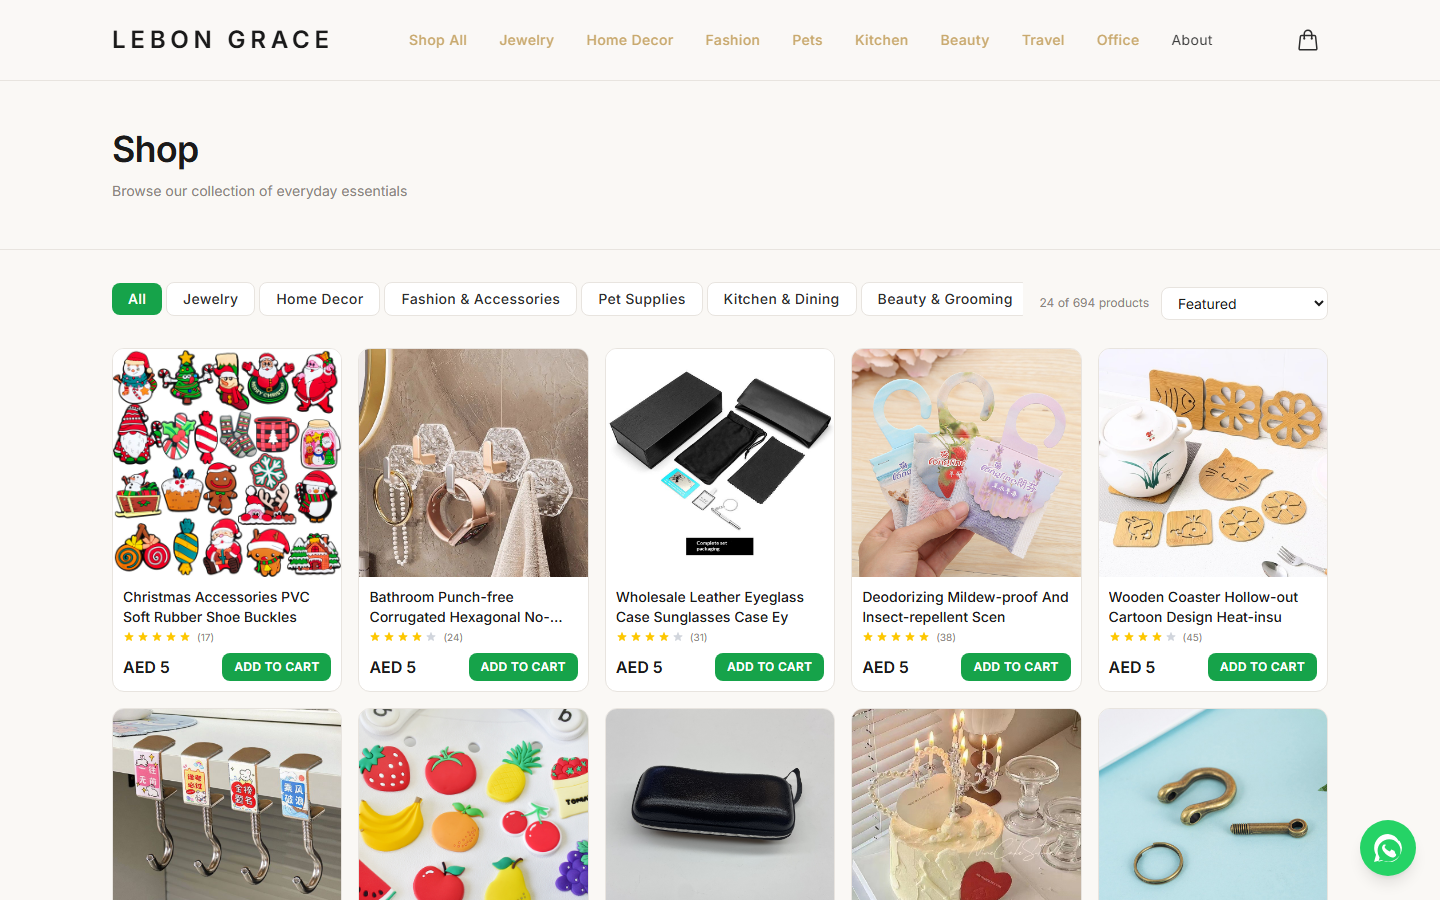
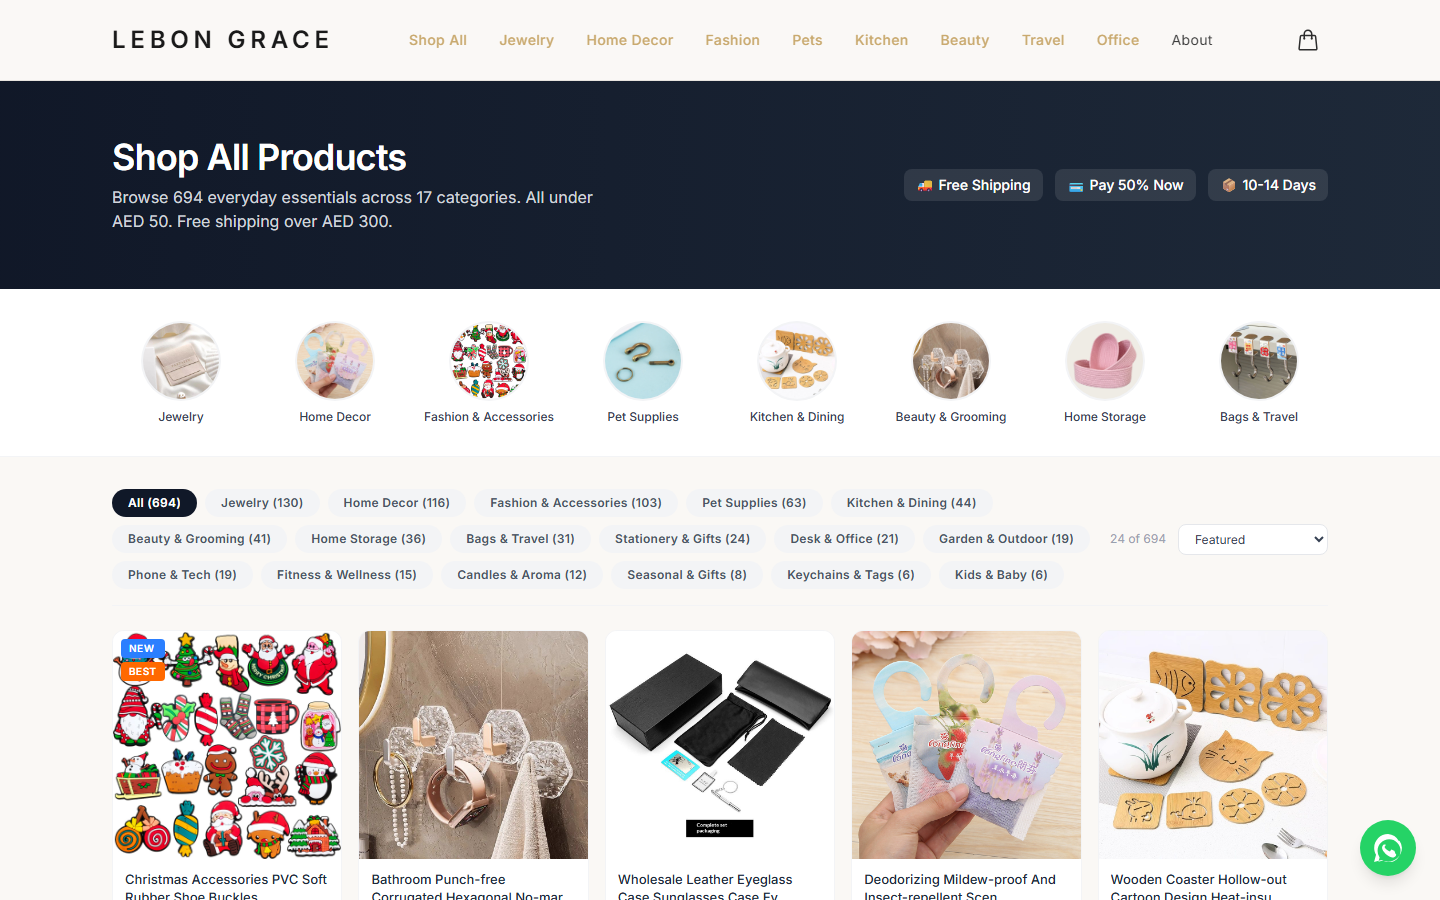
feat: redesign shop page with e-commerce best practices
- Dark hero banner with product count, category count, trust badges
- Category showcase section with circular product images
- Rounded filter pills with product counts (All, Jewelry, Home, etc.)
- Product cards with: NEW/BEST badges, star ratings, hover effects
- Green Add to Cart button with + icon
- Improved sort dropdown and product count display
- Trust bar at bottom (Free Shipping, 50/50 Payment, Secure, Returns)
- Responsive grid: 2 cols mobile, 3 tablet, 4 desktop, 5 large
- Removed scrollbar from category filters

diff --git a/src/app/shop/page.tsx b/src/app/shop/page.tsx
@@ -7,7 +7,6 @@ import { useCart } from "@/lib/cart-context";
 import { products, formatPrice, categories } from "@/lib/products";
 import { Suspense } from "react";
 
-const filterTabs = ["All", ...categories.map((c) => c.name)] as const;
 const sortOptions = [
   { value: "featured", label: "Featured" },
   { value: "price-low", label: "Price: Low to High" },
@@ -15,16 +14,109 @@ const sortOptions = [
   { value: "name-az", label: "Name: A\u2013Z" },
 ];
 
-function StarRating({ index }: { index: number }) {
-  const rating = (index % 3 === 0) ? 5 : (index % 2 === 0 ? 4.5 : 4);
+function StarRating({ rating, count }: { rating: number; count: number }) {
   return (
-    <div className="flex items-center gap-0.5 mt-1">
+    <div className="flex items-center gap-0.5">
       {[1,2,3,4,5].map((i) => (
-        <svg key={i} className={`w-3 h-3 ${i <= Math.floor(rating) ? "text-yellow-400" : "text-gray-300"}`} fill="currentColor" viewBox="0 0 20 20">
+        <svg key={i} className={`w-3 h-3 ${i <= Math.floor(rating) ? "text-yellow-400" : i - 0.5 <= rating ? "text-yellow-300" : "text-gray-200"}`} fill="currentColor" viewBox="0 0 20 20">
           <path d="M9.049 2.927c.3-.921 1.603-.921 1.902 0l1.07 3.292a1 1 0 00.95.69h3.462c.969 0 1.371 1.24.588 1.81l-2.8 2.034a1 1 0 00-.364 1.118l1.07 3.292c.3.921-.755 1.688-1.54 1.118l-2.8-2.034a1 1 0 00-1.175 0l-2.8 2.034c-.784.57-1.838-.197-1.539-1.118l1.07-3.292a1 1 0 00-.364-1.118L2.98 8.72c-.783-.57-.38-1.81.588-1.81h3.461a1 1 0 00.951-.69l1.07-3.292z" />
         </svg>
       ))}
-      <span className="text-warm-gray text-[10px] ml-1">({(index * 7 + 12) % 50 + 5})</span>
+      <span className="text-gray-400 text-[11px] ml-0.5">({count})</span>
+    </div>
+  );
+}
+
+function CategoryShowcase() {
+  const topCategories = categories.slice(0, 8);
+  return (
+    <section className="bg-white border-b border-gray-100">
+      <div className="max-w-7xl mx-auto px-4 sm:px-6 lg:px-8 py-8">
+        <div className="grid grid-cols-4 sm:grid-cols-4 lg:grid-cols-8 gap-4">
+          {topCategories.map((cat) => {
+            const sampleProduct = products.find((p) => p.category === cat.name && p.imageUrl);
+            return (
+              <Link key={cat.name} href={"/shop?category=" + encodeURIComponent(cat.name)} className="group flex flex-col items-center gap-2 text-center">
+                <div className="w-16 h-16 sm:w-20 sm:h-20 rounded-full overflow-hidden bg-gray-100 border-2 border-transparent group-hover:border-[#16A34A] transition-colors duration-200">
+                  {sampleProduct?.imageUrl ? (
+                    <img src={sampleProduct.imageUrl} alt={cat.name} className="w-full h-full object-cover" loading="lazy" />
+                  ) : (
+                    <div className="w-full h-full flex items-center justify-center bg-gray-100 text-xl">{cat.icon}</div>
+                  )}
+                </div>
+                <span className="text-xs font-medium text-gray-700 group-hover:text-[#16A34A] transition-colors leading-tight">{cat.name}</span>
+              </Link>
+            );
+          })}
+        </div>
+      </div>
+    </section>
+  );
+}
+
+function ProductCard({ product, index, onAdd }: { product: typeof products[0]; index: number; onAdd: () => void }) {
+  const rating = 3.5 + (index % 3) * 0.5;
+  const reviewCount = (index * 7 + 12) % 50 + 5;
+  const isNew = index % 5 === 0;
+  const isBestseller = index % 7 === 0;
+
+  return (
+    <div className="group relative bg-white rounded-xl overflow-hidden border border-gray-100 hover:shadow-lg hover:-translate-y-0.5 transition-all duration-200">
+      {/* Badges */}
+      <div className="absolute top-2 left-2 z-10 flex flex-col gap-1">
+        {isNew && <span className="px-2 py-0.5 bg-blue-500 text-white text-[10px] font-bold uppercase tracking-wider rounded">New</span>}
+        {isBestseller && <span className="px-2 py-0.5 bg-orange-500 text-white text-[10px] font-bold uppercase tracking-wider rounded">Best</span>}
+      </div>
+
+      {/* Image */}
+      <Link href={"/shop/" + product.slug} className="block">
+        <div className="aspect-square overflow-hidden bg-gray-50">
+          <img
+            src={product.imageUrl}
+            alt={product.name}
+            className="w-full h-full object-cover group-hover:scale-105 transition-transform duration-500"
+            loading="lazy"
+            onError={(e) => {
+              const target = e.target as HTMLImageElement;
+              target.style.display = 'none';
+              const parent = target.parentElement;
+              if (parent) {
+                parent.style.backgroundColor = product.imagePlaceholder.bg;
+                parent.style.display = 'flex';
+                parent.style.alignItems = 'center';
+                parent.style.justifyContent = 'center';
+                const span = document.createElement('span');
+                span.className = 'font-bold text-2xl opacity-60';
+                span.style.color = (product.imagePlaceholder.bg === "#C9A96E" || product.imagePlaceholder.bg === "#D4BA85") ? "#2D2D2D" : "#FAF8F5";
+                span.textContent = product.imagePlaceholder.initials;
+                parent.appendChild(span);
+              }
+            }}
+          />
+        </div>
+      </Link>
+
+      {/* Info */}
+      <div className="p-3">
+        <Link href={"/shop/" + product.slug}>
+          <h3 className="text-[13px] font-medium text-gray-800 leading-snug line-clamp-2 hover:text-[#16A34A] transition-colors mb-1">{product.name}</h3>
+        </Link>
+        <StarRating rating={rating} count={reviewCount} />
+        <div className="flex items-center justify-between mt-2.5">
+          <div>
+            <span className="text-gray-900 font-bold text-base">{formatPrice(product.price)}</span>
+          </div>
+          <button
+            onClick={onAdd}
+            className="flex items-center gap-1 px-3 py-1.5 bg-[#16A34A] text-white text-xs font-semibold tracking-wide rounded-lg hover:bg-[#15803D] active:scale-95 transition-all"
+          >
+            <svg className="w-3.5 h-3.5" fill="none" viewBox="0 0 24 24" stroke="currentColor" strokeWidth={2}>
+              <path strokeLinecap="round" strokeLinejoin="round" d="M12 4v16m8-8H4" />
+            </svg>
+            Add
+          </button>
+        </div>
+      </div>
     </div>
   );
 }
@@ -54,39 +146,77 @@ function ShopContent() {
 
   return (
     <>
-      <section className="bg-offwhite border-b border-border">
-        <div className="max-w-7xl mx-auto px-4 sm:px-6 lg:px-8 py-8 lg:py-12">
-          <h1 className="text-3xl lg:text-4xl font-bold tracking-tight text-dark">Shop</h1>
-          <p className="mt-3 text-warm-gray text-sm">Browse our collection of everyday essentials</p>
+      {/* Hero Banner */}
+      <section className="bg-gradient-to-r from-gray-900 to-gray-800 text-white">
+        <div className="max-w-7xl mx-auto px-4 sm:px-6 lg:px-8 py-10 lg:py-14">
+          <div className="flex flex-col lg:flex-row items-center justify-between gap-6">
+            <div>
+              <h1 className="text-3xl lg:text-4xl font-bold tracking-tight">Shop All Products</h1>
+              <p className="mt-2 text-gray-300 text-sm lg:text-base max-w-lg">
+                Browse {products.length} everyday essentials across {categories.length} categories. All under AED 50. Free shipping over AED 300.
+              </p>
+            </div>
+            <div className="flex items-center gap-3">
+              <span className="px-3 py-1.5 bg-white/10 rounded-lg text-sm font-medium">
+                🚚 Free Shipping
+              </span>
+              <span className="px-3 py-1.5 bg-white/10 rounded-lg text-sm font-medium">
+                💳 Pay 50% Now
+              </span>
+              <span className="px-3 py-1.5 bg-white/10 rounded-lg text-sm font-medium">
+                📦 10-14 Days
+              </span>
+            </div>
+          </div>
         </div>
       </section>
 
-      <section className="max-w-7xl mx-auto px-4 sm:px-6 lg:px-8 py-6 lg:py-8">
-        {/* Filter Tabs + Sort */}
-        <div className="flex flex-col sm:flex-row sm:items-center sm:justify-between gap-4 mb-6">
-          <div className="flex items-center gap-1 overflow-x-auto pb-2">
-            {filterTabs.map((tab) => (
-              <button
-                key={tab}
-                onClick={() => { setActiveFilter(tab); setVisibleCount(24); }}
-                className={`px-4 py-1.5 text-sm font-medium tracking-wide rounded-lg whitespace-nowrap transition-colors ${
-                  activeFilter === tab
-                    ? "bg-[#16A34A] text-white"
-                    : "bg-white text-charcoal hover:bg-gray-100 border border-border"
-                }`}
-              >
-                {tab}
-              </button>
-            ))}
+      {/* Category Showcase */}
+      <CategoryShowcase />
+
+      {/* Main Shop Section */}
+      <section className="max-w-7xl mx-auto px-4 sm:px-6 lg:px-8 py-8">
+        {/* Toolbar */}
+        <div className="flex flex-col sm:flex-row sm:items-center sm:justify-between gap-4 mb-6 pb-4 border-b border-gray-100">
+          {/* Category Pills */}
+          <div className="flex items-center gap-2 flex-wrap">
+            <button
+              onClick={() => { setActiveFilter("All"); setVisibleCount(24); }}
+              className={`px-4 py-1.5 text-xs font-semibold tracking-wide rounded-full transition-colors ${
+                activeFilter === "All"
+                  ? "bg-gray-900 text-white"
+                  : "bg-gray-100 text-gray-600 hover:bg-gray-200"
+              }`}
+            >
+              All ({products.length})
+            </button>
+            {categories.map((cat) => {
+              const count = products.filter(p => p.category === cat.name).length;
+              return (
+                <button
+                  key={cat.name}
+                  onClick={() => { setActiveFilter(cat.name); setVisibleCount(24); }}
+                  className={`px-4 py-1.5 text-xs font-semibold tracking-wide rounded-full transition-colors ${
+                    activeFilter === cat.name
+                      ? "bg-gray-900 text-white"
+                      : "bg-gray-100 text-gray-600 hover:bg-gray-200"
+                  }`}
+                >
+                  {cat.name} ({count})
+                </button>
+              );
+            })}
           </div>
-          <div className="flex items-center gap-3">
-            <span className="text-warm-gray text-xs whitespace-nowrap">
-              {Math.min(visibleCount, filteredProducts.length)} of {filteredProducts.length} products
+
+          {/* Sort + Count */}
+          <div className="flex items-center gap-3 flex-shrink-0">
+            <span className="text-gray-400 text-xs">
+              {Math.min(visibleCount, filteredProducts.length)} of {filteredProducts.length}
             </span>
             <select
               value={sortBy}
               onChange={(e) => { setSortBy(e.target.value); setVisibleCount(24); }}
-              className="border border-border rounded-lg px-3 py-1.5 text-sm bg-white text-dark focus:border-[#16A34A] focus:ring-1 focus:ring-[#16A34A] outline-none"
+              className="border border-gray-200 rounded-lg px-3 py-1.5 text-xs bg-white text-gray-700 focus:border-[#16A34A] focus:ring-1 focus:ring-[#16A34A] outline-none cursor-pointer"
             >
               {sortOptions.map((opt) => (
                 <option key={opt.value} value={opt.value}>{opt.label}</option>
@@ -98,69 +228,64 @@ function ShopContent() {
         {/* Product Grid */}
         <div className="grid grid-cols-2 sm:grid-cols-3 lg:grid-cols-4 xl:grid-cols-5 gap-3 lg:gap-4">
           {visibleProducts.map((product, index) => (
-            <div key={product.slug} className="group bg-white rounded-xl border border-border overflow-hidden hover:shadow-lg hover:-translate-y-0.5 transition-all duration-200">
-              <Link href={"/shop/" + product.slug}>
-                <div className="aspect-square overflow-hidden bg-surface">
-                  <img
-                    src={product.imageUrl}
-                    alt={product.name}
-                    className="w-full h-full object-cover group-hover:scale-105 transition-transform duration-300"
-                    loading="lazy"
-                    onError={(e) => {
-                      const target = e.target as HTMLImageElement;
-                      target.style.display = 'none';
-                      const parent = target.parentElement;
-                      if (parent) {
-                        parent.style.backgroundColor = product.imagePlaceholder.bg;
-                        parent.style.display = 'flex';
-                        parent.style.alignItems = 'center';
-                        parent.style.justifyContent = 'center';
-                        const span = document.createElement('span');
-                        span.className = 'font-bold text-3xl opacity-80';
-                        span.style.color = (product.imagePlaceholder.bg === "#C9A96E" || product.imagePlaceholder.bg === "#D4BA85") ? "#2D2D2D" : "#FAF8F5";
-                        span.textContent = product.imagePlaceholder.initials;
-                        parent.appendChild(span);
-                      }
-                    }}
-                  />
-                </div>
-              </Link>
-              <div className="p-2.5">
-                <Link href={"/shop/" + product.slug}>
-                  <h3 className="text-sm font-medium text-dark leading-snug line-clamp-2 hover:text-[#16A34A] transition-colors">{product.name}</h3>
-                </Link>
-                <StarRating index={index} />
-                <div className="flex items-center justify-between mt-2">
-                  <span className="text-dark font-bold text-base">{formatPrice(product.price)}</span>
-                  <button
-                    onClick={() => addItem(product)}
-                    className="px-3 py-1.5 bg-[#16A34A] text-white text-xs font-semibold tracking-wide uppercase rounded-lg hover:bg-[#15803D] active:scale-95 transition-all"
-                  >
-                    Add to Cart
-                  </button>
-                </div>
-              </div>
-            </div>
+            <ProductCard
+              key={product.slug + index}
+              product={product}
+              index={index}
+              onAdd={() => addItem(product)}
+            />
           ))}
         </div>
 
         {filteredProducts.length === 0 && (
-          <div className="text-center py-16">
-            <p className="text-warm-gray text-sm">No products found in this category.</p>
+          <div className="text-center py-20">
+            <p className="text-gray-400 text-lg">No products found in &ldquo;{activeFilter}&rdquo;</p>
+            <button onClick={() => setActiveFilter("All")} className="mt-4 text-[#16A34A] text-sm font-medium hover:underline">
+              View all products
+            </button>
           </div>
         )}
 
         {/* Load More */}
         {visibleCount < filteredProducts.length && (
-          <div className="text-center mt-10">
+          <div className="text-center mt-12 mb-8">
             <button
               onClick={() => setVisibleCount((prev) => prev + 24)}
-              className="px-8 py-3 bg-dark text-white text-sm font-semibold tracking-wide rounded-lg hover:bg-charcoal transition-colors"
+              className="px-10 py-3.5 bg-gray-900 text-white text-sm font-semibold tracking-wide rounded-lg hover:bg-gray-800 transition-colors"
             >
-              Load More ({Math.min(24, filteredProducts.length - visibleCount)} remaining)
+              Load More Products
             </button>
+            <p className="mt-2 text-gray-400 text-xs">
+              Showing {Math.min(visibleCount, filteredProducts.length)} of {filteredProducts.length} products
+            </p>
           </div>
         )}
+
+        {/* Trust Bar */}
+        <div className="mt-12 pt-8 border-t border-gray-100">
+          <div className="grid grid-cols-2 lg:grid-cols-4 gap-6 text-center">
+            <div>
+              <div className="text-2xl mb-2">🚚</div>
+              <p className="text-sm font-medium text-gray-800">Free Shipping</p>
+              <p className="text-xs text-gray-400 mt-0.5">On orders over AED 300</p>
+            </div>
+            <div>
+              <div className="text-2xl mb-2">💳</div>
+              <p className="text-sm font-medium text-gray-800">Pay 50% Now</p>
+              <p className="text-xs text-gray-400 mt-0.5">50% on delivery</p>
+            </div>
+            <div>
+              <div className="text-2xl mb-2">🔒</div>
+              <p className="text-sm font-medium text-gray-800">Secure Payment</p>
+              <p className="text-xs text-gray-400 mt-0.5">Via Stripe</p>
+            </div>
+            <div>
+              <div className="text-2xl mb-2">📦</div>
+              <p className="text-sm font-medium text-gray-800">Easy Returns</p>
+              <p className="text-xs text-gray-400 mt-0.5">Contact us within 48h</p>
+            </div>
+          </div>
+        </div>
       </section>
     </>
   );
@@ -168,7 +293,7 @@ function ShopContent() {
 
 export default function ShopPage() {
   return (
-    <Suspense fallback={<div className="max-w-7xl mx-auto px-4 py-16 text-center text-warm-gray">Loading...</div>}>
+    <Suspense fallback={<div className="max-w-7xl mx-auto px-4 py-16 text-center text-gray-400">Loading...</div>}>
       <ShopContent />
     </Suspense>
   );